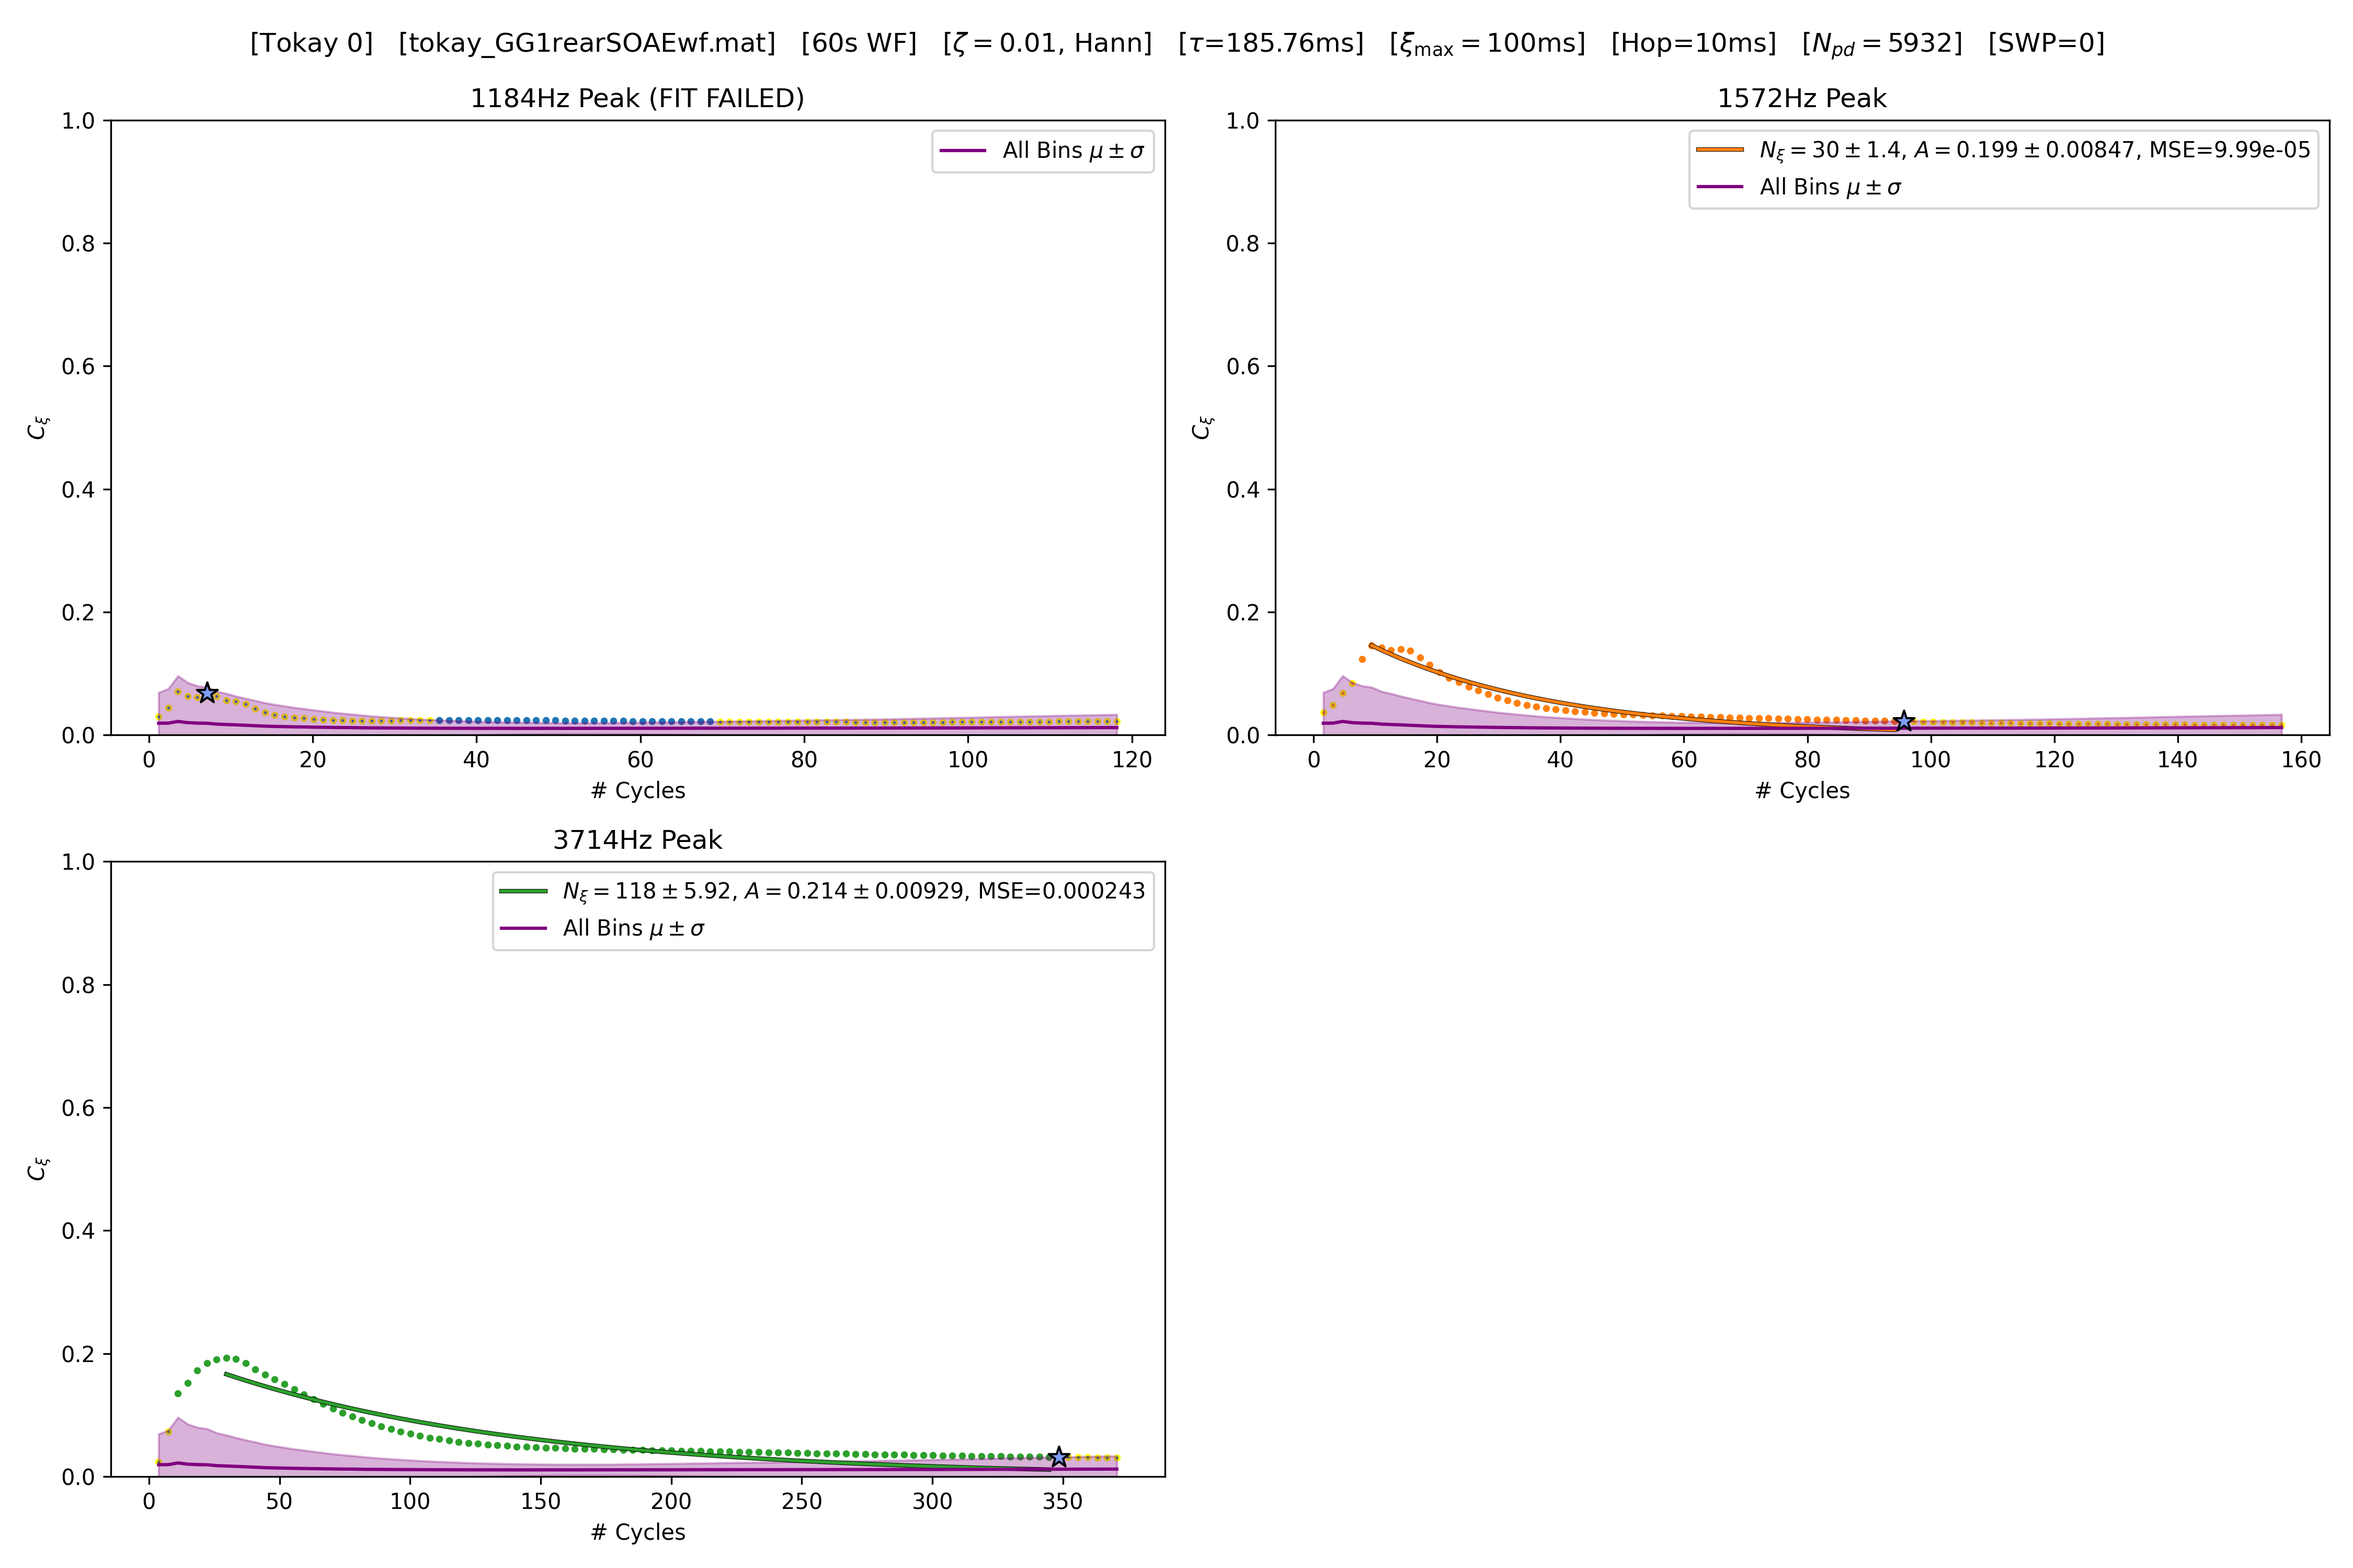
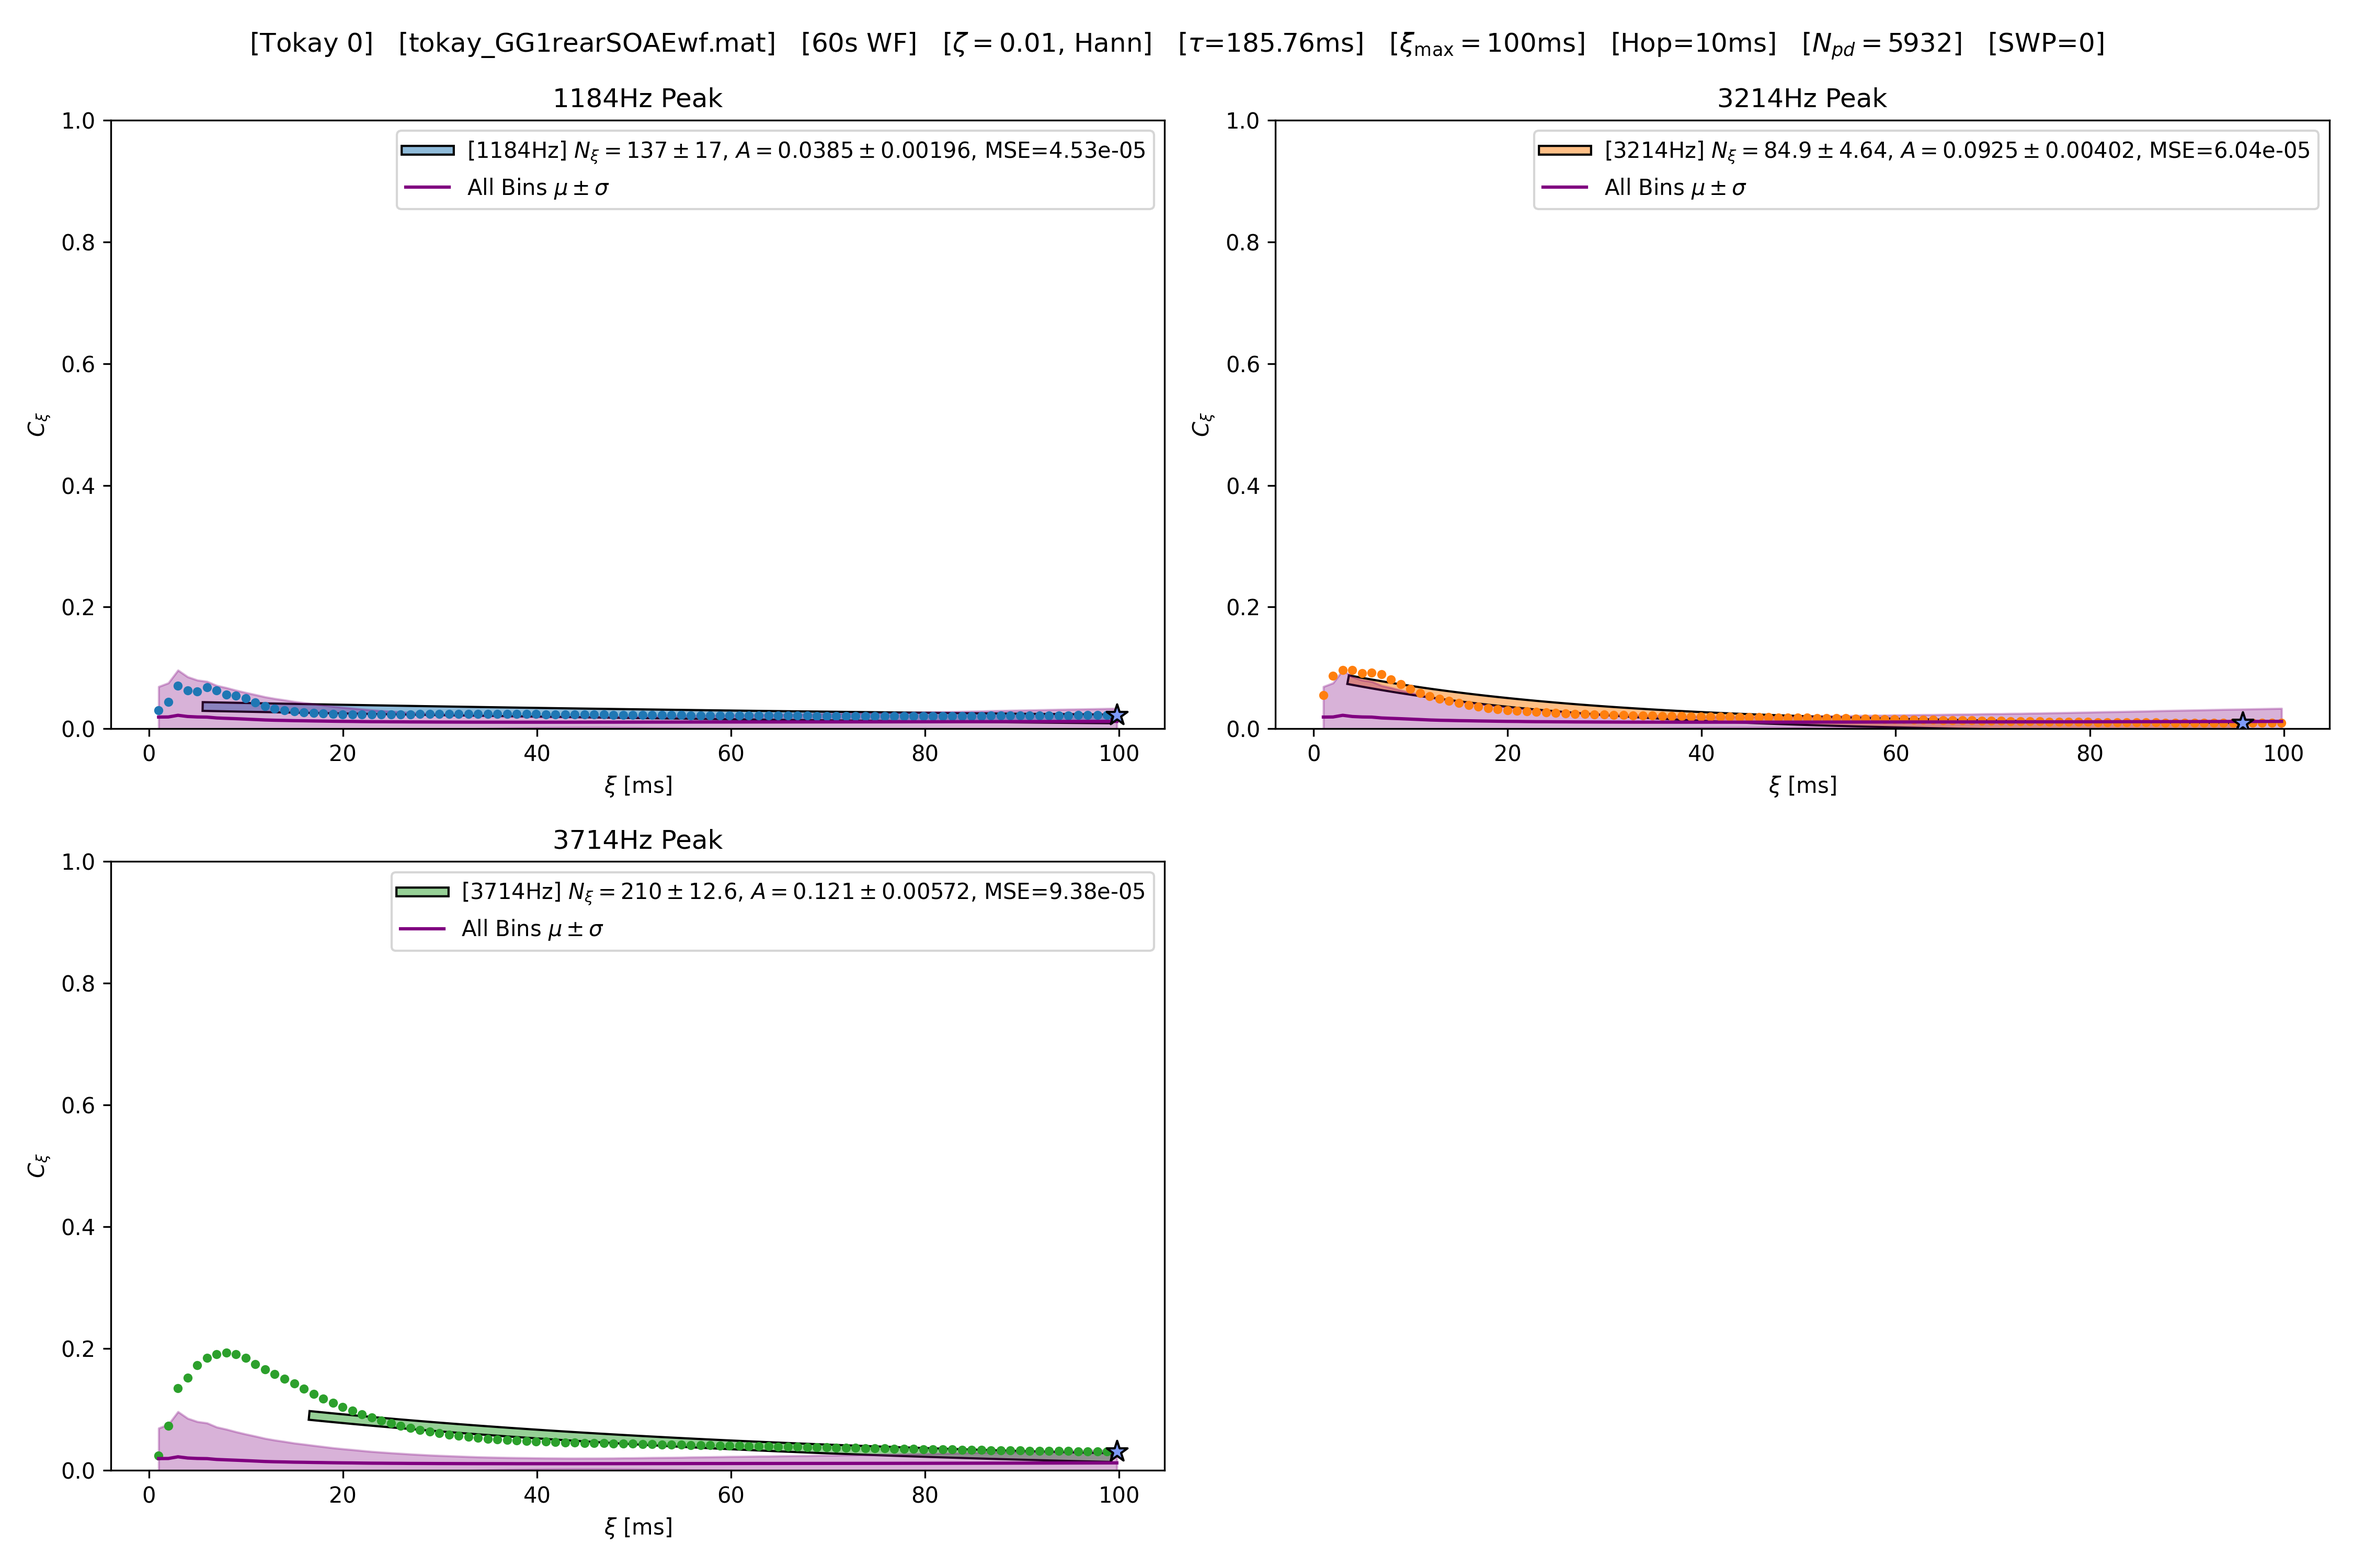
updated avg_abs_phases, ran N_xi_fit with more taus

diff --git a/paper_analysis/N_xi_fit.py b/paper_analysis/N_xi_fit.py
@@ -7,18 +7,19 @@ import pandas as pd
 import phaseco as pc
 
 all_species = ["Anole", "Human", "Owl", "Tokay"]
+speciess = ["Human"]
 
 for win_meth in [
-    # {"method": "zeta", "zeta": 0.01, "win_type": "hann"},
     {"method": "rho", "rho": 0.7},
+    # {"method": "zeta", "zeta": 0.01, "win_type": "hann"},
     # {"method": "zeta", "zeta": 0.01, "win_type": "boxcar"},
     # {"method": "static", "win_type": "hann"},
 ]:
     for pw in [True]:
         # Initialize list for row dicts for xlsx file
         rows = []
-        for species in all_species:
-            for wf_idx in range(1):
+        for species in speciess:
+            for wf_idx in range(4):
                 if wf_idx == 4 and species != "Owl":
                     continue
                 # if species == "V Sim Human" and wf_idx != 0:
@@ -32,12 +33,12 @@ for win_meth in [
 
                 "PARAMETERS"
                 # WF pre-processing parameters
-                bpf_center_freq = 3710
-                bpf_bandwidth = 250
+                # bpf_center_freq = 3710
+                # bpf_bandwidth = 250
                 filter = {
                     "type": "kaiser",
-                    # "cf": 300,
-                    "cf": (bpf_center_freq-bpf_bandwidth, bpf_center_freq+bpf_bandwidth),
+                    "cf": 300,
+                    # "cf": (bpf_center_freq-bpf_bandwidth, bpf_center_freq+bpf_bandwidth),
                     "df": 50,
                     "rip": 100,
                 }  # cutoff freq (HPF if one value, BPF if two), transition band width, and max allowed ripple (in dB)
@@ -47,7 +48,7 @@ for win_meth in [
 
                 # Coherence Parameters
                 hop_s = 0.01
-                tau_s = 2**13 / 44100  # Everyone uses the same tau_s
+                tau_s = 2**14 / 44100  # Everyone uses the same tau_s
                 tau = round(
                     tau_s * fs
                 )  # This is just 2**13 for (power of 2 = maximally efficient FFT), except for owls where fs!=44100
@@ -60,13 +61,12 @@ for win_meth in [
                 const_N_pd = 1
 
                 # Output options
-                output_colossogram = 0
+                output_colossogram = 1
                 output_peak_picks = 1
                 output_fits = 1
                 output_bad_fits = 1
                 output_spreadsheet = 0
-                output_avg_abs_phi = 1
-                show_plots = 1
+                show_plots = 0
 
                 # Fitting Parameters
                 mse_thresh = 0.0001 # Decay start is pushed forward xi by xi until MSE thresh falls below this value
@@ -100,8 +100,8 @@ for win_meth in [
                 xi_max_ss = {
                     "Anole": 0.1,
                     "Owl": 0.1,
-                    "Human": 0.3,
-                    # "Human": 1.0,
+                    # "Human": 0.3,
+                    "Human": 1.0,
                     "V Sim Human": 0.2,
                     "Tokay": 0.1,
                 }
@@ -134,7 +134,7 @@ for win_meth in [
 
                 "Calculate/load things"
                 # This will either load it if it's there or calculate it (and pickle it) if not
-                N_xi_folder = r"N_xi Fits/"
+                paper_analysis_folder = r"paper_analysis/"
                 colossogram_dict = load_calc_colossogram(
                     wf,
                     wf_idx,
@@ -143,7 +143,7 @@ for win_meth in [
                     species,
                     fs,
                     filter,
-                    N_xi_folder,
+                    paper_analysis_folder,
                     pw,
                     tau,
                     tau_s,
@@ -199,25 +199,15 @@ for win_meth in [
 
                 "Make more directories"
                 results_folder = (
-                    N_xi_folder + rf"Results/Results (PW={pw}, {win_meth_str})"
+                    paper_analysis_folder + rf"Results/Results (PW={pw}, {win_meth_str})"
                 )
-                all_results_folder = N_xi_folder + rf"Results/Results (All)"
+                all_results_folder = paper_analysis_folder + rf"Results/Results (All)"
                 os.makedirs(results_folder, exist_ok=True)
                 os.makedirs(all_results_folder, exist_ok=True)
-                os.makedirs(N_xi_folder + r"Additional Figures/", exist_ok=True)
+                os.makedirs(paper_analysis_folder + r"Additional Figures/", exist_ok=True)
 
                 "Plots"
                 suptitle = rf"[{species} {wf_idx}]   [{wf_fn}]   [{wf_len_s}s WF]   {method_id}"
-
-                if output_avg_abs_phi:
-                    print("Plotting <|phi|>")
-                    plt.close("all")
-                    plt.figure(figsize=(15, 5))
-                    target_xi = xi_max_s / 10
-                    xi_idx = np.argmin(np.abs(xis_s - target_xi))
-                    coherence_slice = colossogram[xi_idx, :]
-                    phases = np.angle(coherence_slice)
-                    phases = np.unwrap(phases)
                     
 
                 if output_colossogram:
